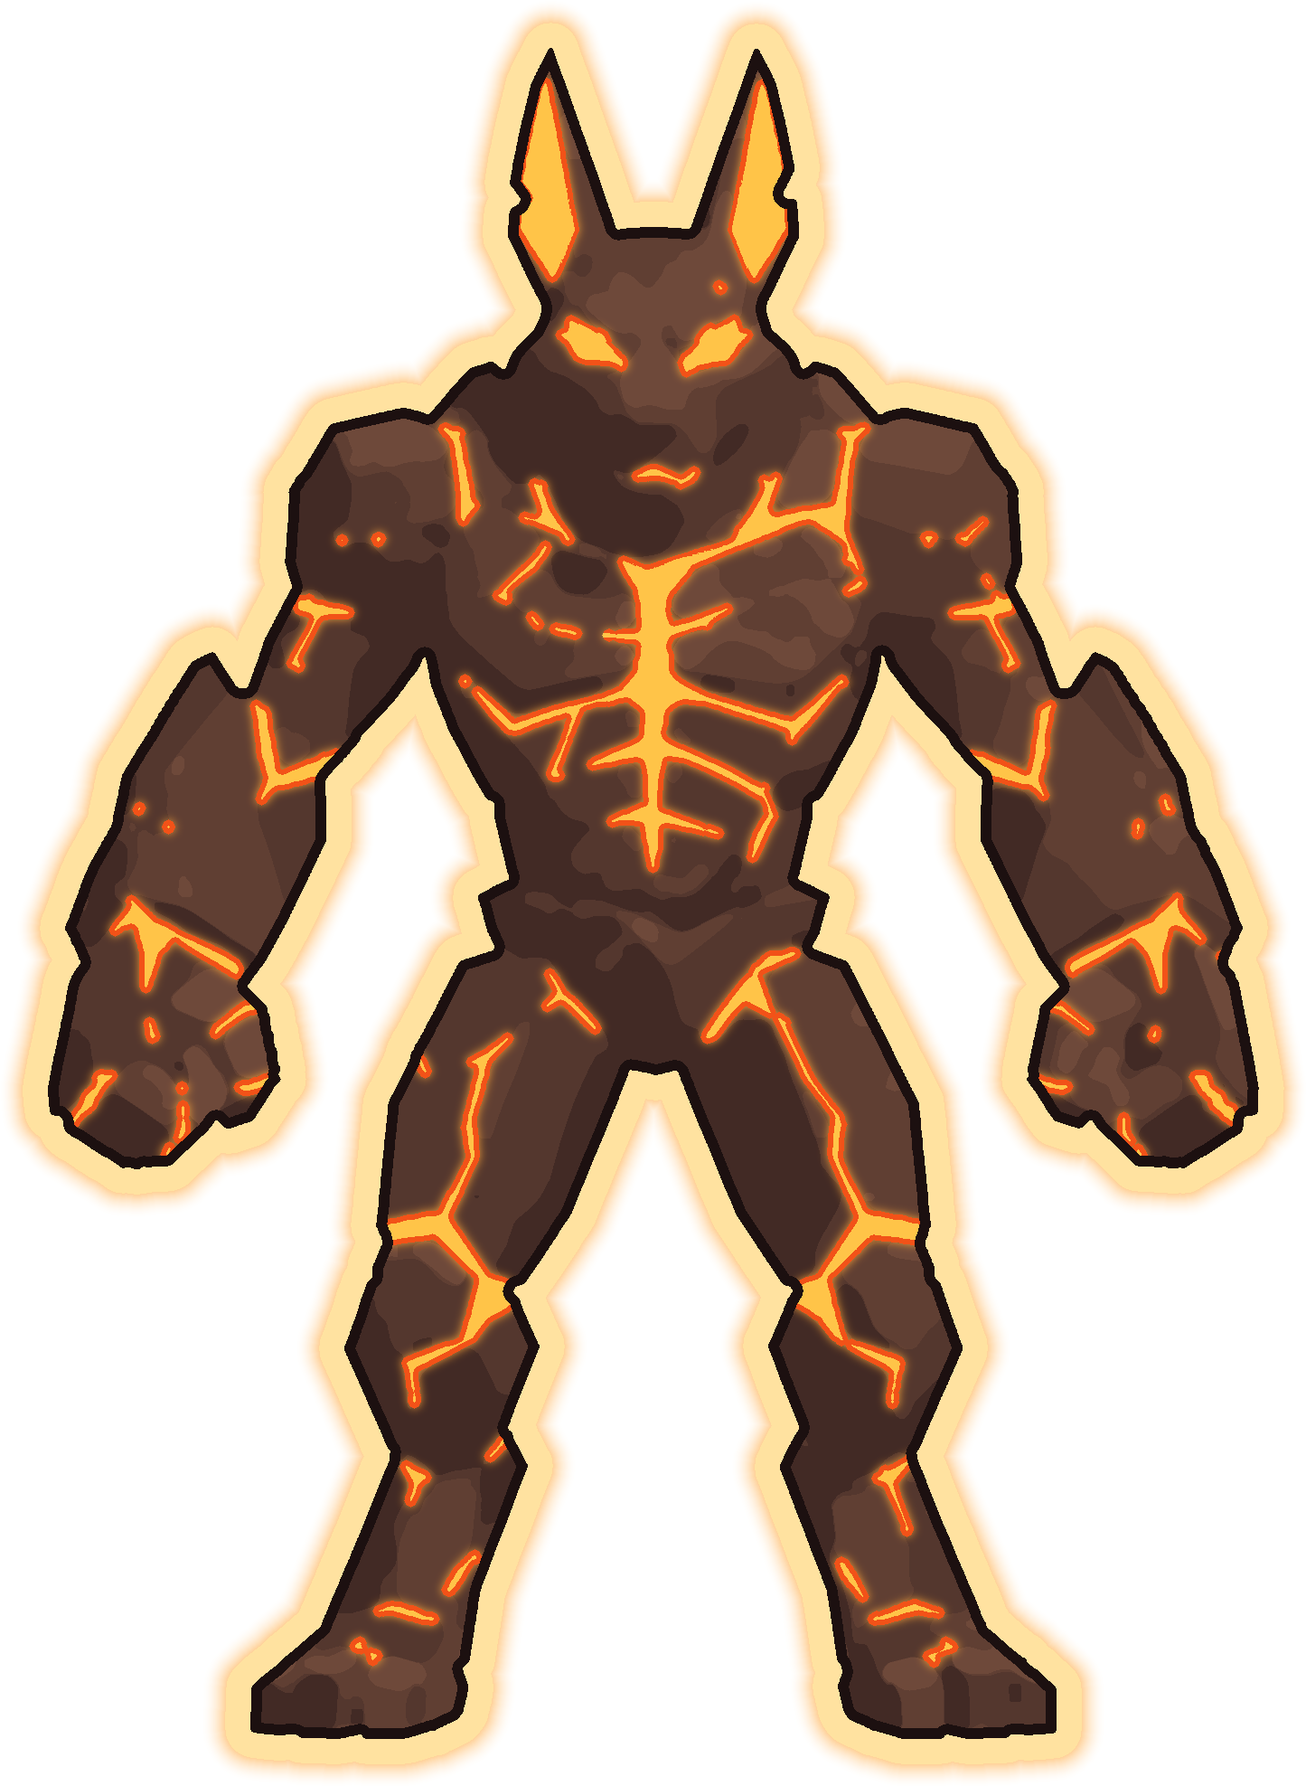
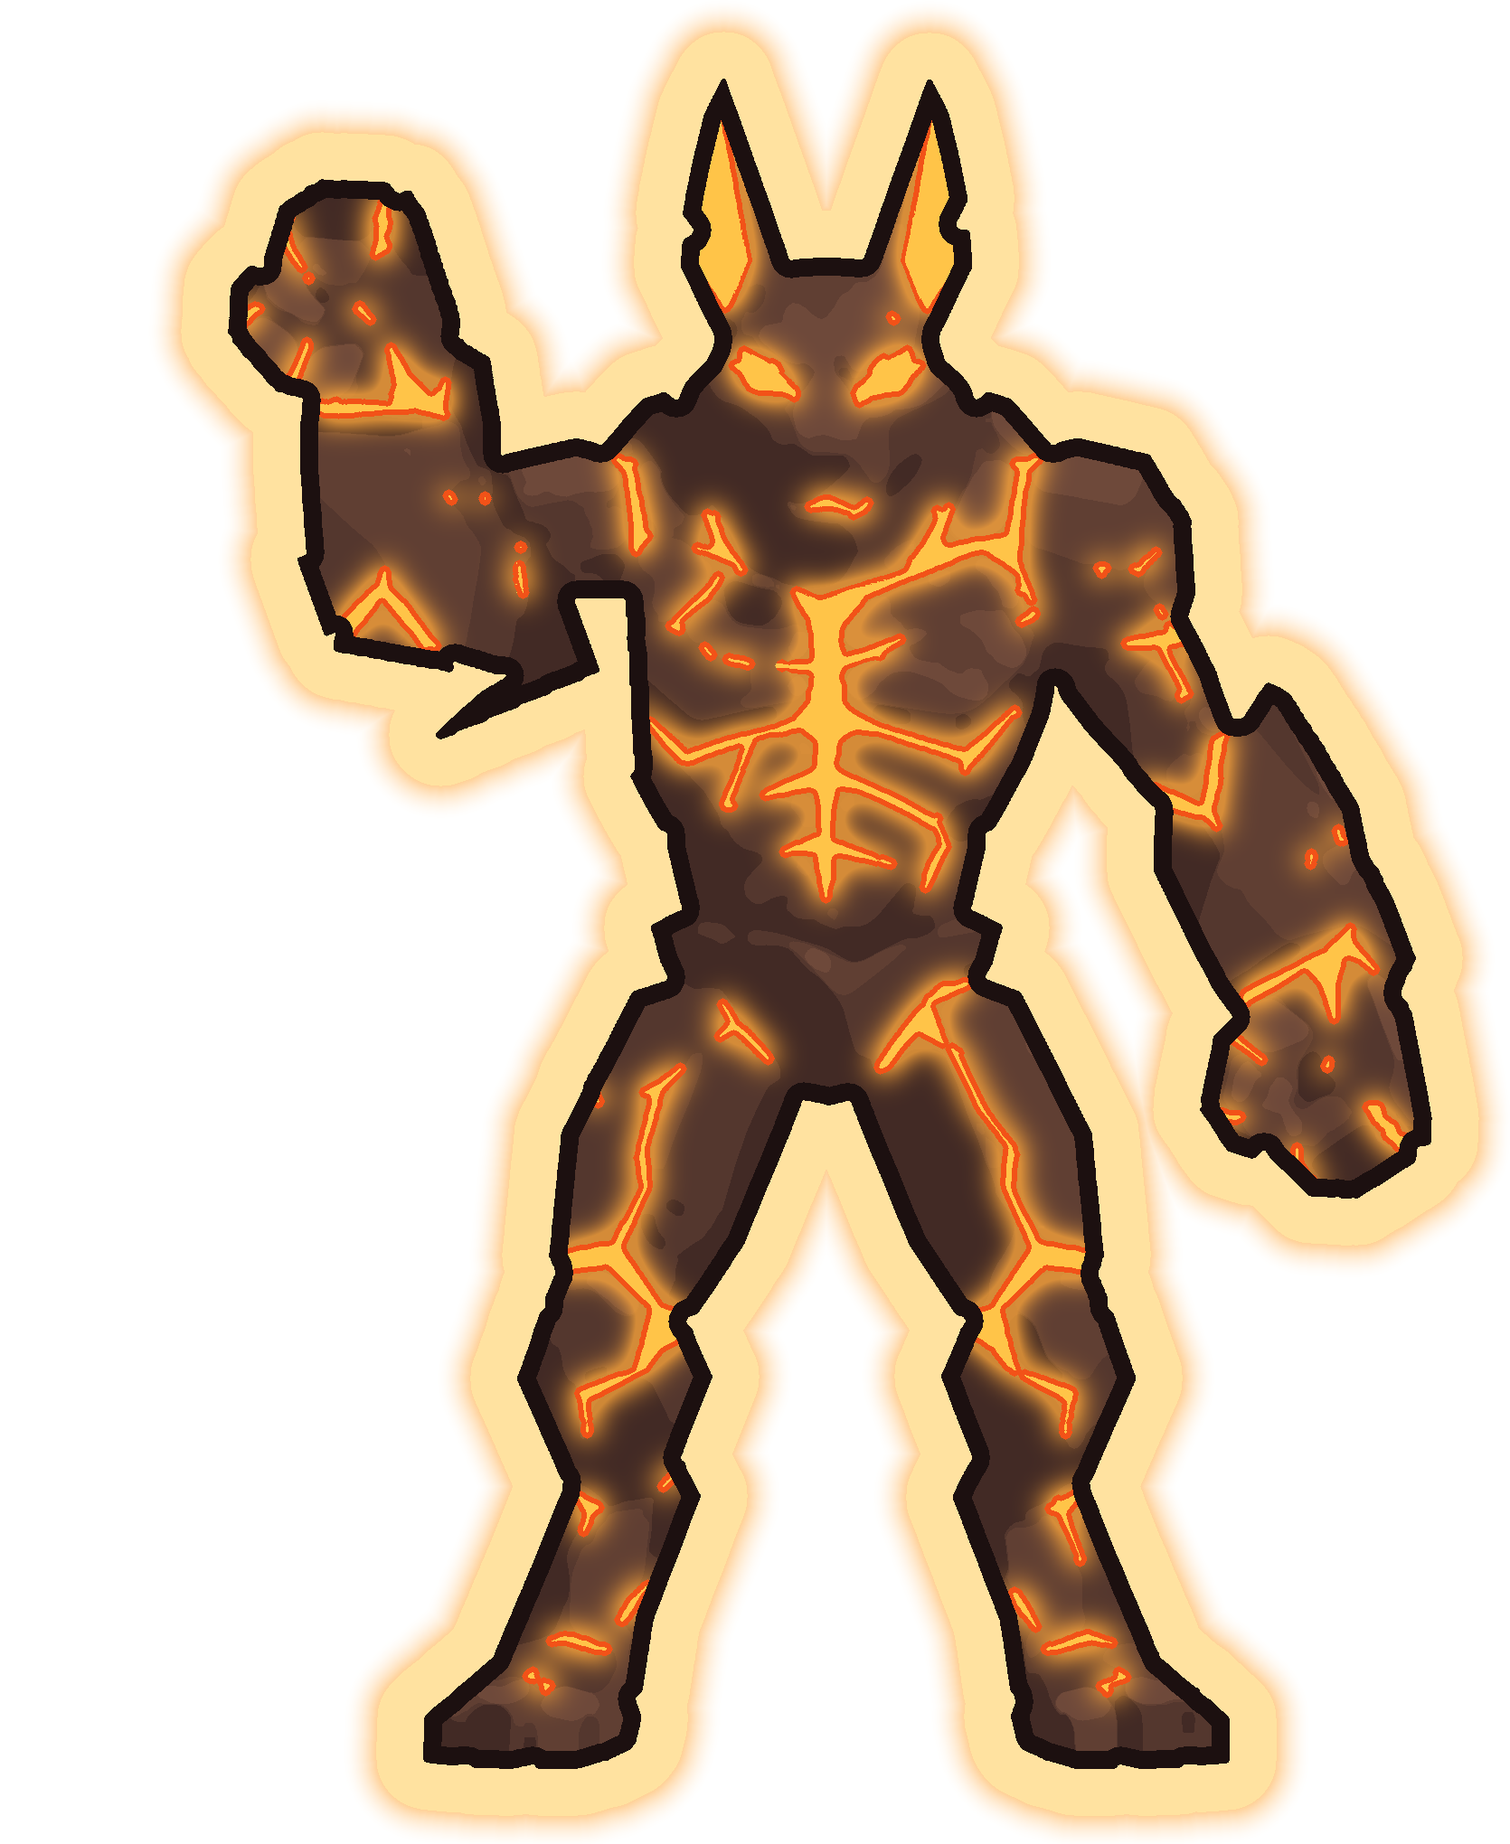
builder: jackal raises a burning fist — re-posed sprite, looping flame, bolder outline
Claude-Session: https://claude.ai/code/session_01Ncuv5uKtfeijyzjwXwmmWA

diff --git a/tools/beast_sprite.py b/tools/beast_sprite.py
@@ -14,11 +14,12 @@ points on the image (`HOLDS`) rather than raycast off a mesh.
 Needs Pillow, numpy and scipy. Re-runnable; the output is deterministic.
 """
 import json
+import math
 import sys
 from pathlib import Path
 
 import numpy as np
-from PIL import Image
+from PIL import Image, ImageDraw
 from scipy import ndimage as ndi
 
 ROOT = Path(__file__).resolve().parent.parent
@@ -38,6 +39,23 @@ BEASTS = {
             3: (560, 430), 4: (535, 330), 5: (512, 225),
         },
         "ledges": [0, 2, 3, 4],
+        # TARGET.png's pose out of the concept's arms-down turnaround (Nick,
+        # 2026-10-06: "use the reference again ... design"): the arm on the
+        # viewer's left is cut into upper arm and forearm+fist, the upper arm
+        # swung out to the side about the shoulder and the forearm swung up
+        # about the elbow, so the fist is raised beside the head. Concept
+        # pixels; degrees clockwise on screen. `nudge` slides the forearm onto
+        # the upper arm so the elbow stays one piece.
+        "repose": [
+            {"poly": [(300, 335), (400, 335), (405, 430), (360, 470), (285, 470)],
+             "pivot": (365, 345), "deg": 70},
+            {"poly": [(170, 370), (250, 360), (345, 440), (340, 520), (300, 560),
+                      (320, 670), (160, 680), (150, 520)],
+             "pivot": (300, 460), "deg": 150, "nudge": (30, 0)},
+        ],
+        # The raised fist burns at rest (TARGET.png): flame centre and size
+        # on the REPOSED concept, in concept pixels.
+        "flame": {"at": (205, 148), "size": (300, 230)},
     },
 }
 
@@ -51,9 +69,9 @@ CRACK = np.array([242, 82, 24], float)
 CRACK_HOT = np.array([255, 196, 72], float)
 
 SCALE = 2          # draw at 2x the concept so the strokes stay crisp
-CREAM_W = 28       # px at 2x: TARGET's outline is ~1.1 % of the beast's height
-INK_W = 12
-HALO_W = 28
+CREAM_W = 52       # px at 2x: bold enough to read at play size (grader, 2026-10-06)
+INK_W = 20
+HALO_W = 40
 MARGIN = 2
 
 
@@ -62,9 +80,97 @@ def disk(r):
     return x * x + y * y <= r * r
 
 
+def _rot(p, c, deg):
+    t = math.radians(deg)
+    x, y = p[0] - c[0], p[1] - c[1]
+    return (c[0] + x * math.cos(t) - y * math.sin(t),
+            c[1] + x * math.sin(t) + y * math.cos(t))
+
+
+def repose(src, pieces):
+    """Cut limbs out of the concept and swing them about their joints.
+
+    Each piece is the figure inside `poly`, rotated `deg` about `pivot`. A
+    piece after the first rides on the one before it: its pivot follows
+    where the previous rotation carried it (plus `nudge`), like a forearm on
+    an upper arm. What a piece leaves behind becomes the grey card.
+    """
+    a = np.asarray(src).astype(float)
+    mn, mx = a.min(-1), a.max(-1)
+    fg = ~((mn > 170) & (mx - mn < 26))
+    card = np.median(a[~fg], 0)
+    masks = []
+    for pc in pieces:
+        m = Image.new("L", src.size, 0)
+        ImageDraw.Draw(m).polygon(pc["poly"], fill=255)
+        masks.append((np.asarray(m) > 0) & fg)
+    base = a.copy()
+    for m in masks:
+        base[m | (ndi.binary_dilation(m, iterations=4) & ~fg)] = card
+    out = Image.fromarray(base.astype(np.uint8))
+    prev = None
+    for pc, m in zip(pieces, masks):
+        piv = pc["pivot"]
+        dst = piv
+        if prev is not None:
+            moved = _rot(piv, prev["pivot"], prev["deg"])
+            dst = (moved[0] + pc.get("nudge", (0, 0))[0], moved[1] + pc.get("nudge", (0, 0))[1])
+        t = math.radians(pc["deg"])
+        c, s_ = math.cos(t), math.sin(t)
+        inv = (c, s_, piv[0] - c * dst[0] - s_ * dst[1],
+               -s_, c, piv[1] + s_ * dst[0] - c * dst[1])
+        layer = Image.fromarray(np.dstack([a, m * 255.0]).astype(np.uint8), "RGBA")
+        layer = layer.transform(src.size, Image.AFFINE, inv, resample=Image.BICUBIC)
+        out.paste(layer, (0, 0), layer)
+        prev = pc
+    return out
+
+
+FLAME_FRAMES = 8
+# TARGET.png's fist fire: a cream-yellow core inside orange inside a deep
+# red-orange skin, hard-edged bands like the cracks, no outline.
+FLAME_BANDS = [(0.0, (238, 92, 26)), (0.32, (255, 150, 40)),
+               (0.58, (255, 210, 90)), (0.8, (255, 244, 196))]
+
+
+def flame_frames(w, h):
+    """FLAME_FRAMES looping frames of a flat drawn flame, side by side.
+
+    Time enters only as whole turns of a sine, so the last frame runs
+    seamlessly back into the first. Deterministic.
+    """
+    v = np.linspace(1.0, -0.16, h)[:, None]        # 0 at the base, 1 at the tip
+    u = np.linspace(-1.0, 1.0, w)[None, :]
+    strip = np.zeros((h, w * FLAME_FRAMES, 4), np.uint8)
+    for f in range(FLAME_FRAMES):
+        ph = 2.0 * math.pi * f / FLAME_FRAMES
+        # Tongues lick upward: the noise scrolls up the flame once per loop.
+        n = (0.55 * np.sin(5.0 * u + 9.0 * v - ph + 0.7)
+             + 0.35 * np.sin(-8.0 * u + 14.0 * v - 2.0 * ph + 2.1)
+             + 0.25 * np.sin(13.0 * u + 21.0 * v - 3.0 * ph + 4.0))
+        sway = 0.10 * np.sin(ph + 3.0 * v) * v
+        # A teardrop: widest a third of the way up, a point at the tip.
+        width = 0.92 * np.clip(np.sin(np.pi * np.clip(0.3 + v * 0.75, 0, 1)), 0, 1) ** 0.8
+        width = width * (1.0 - 0.55 * v ** 2)
+        heat = 1.0 - np.abs(u - sway) / np.maximum(width, 1e-3)
+        heat = heat - 0.45 * v + 0.2 * n * (0.3 + v)
+        # A rounded foot under the fist, not a cut-off base.
+        heat = heat - 6.0 * np.clip(-v, 0, None) - 2.0 * np.abs(u) * np.clip(-v, 0, None) * 6.0
+        heat = ndi.gaussian_filter(heat, 1.2)
+        frame = np.zeros((h, w, 4), np.uint8)
+        for lo, col in FLAME_BANDS:
+            m = heat > lo
+            frame[m, :3] = col
+            frame[m, 3] = 255
+        strip[:, f * w:(f + 1) * w] = frame
+    return Image.fromarray(strip, "RGBA")
+
+
 def build(beast_id):
     spec = BEASTS[beast_id]
     src = Image.open(ROOT / spec["concept"]).convert("RGB")
+    if spec.get("repose"):
+        src = repose(src, spec["repose"])
     w0, h0 = src.size
     src = src.resize((w0 * SCALE, h0 * SCALE), Image.LANCZOS)
     a = np.asarray(src).astype(float)
@@ -114,9 +220,10 @@ def build(beast_id):
     out[body, 3] = 255
 
     # The cracks glow onto the rock beside them.
-    glow = ndi.gaussian_filter(crack.astype(float), 5) * 1.6
+    # TARGET's cracks are hot enough to light the rock a hand's width out.
+    glow = ndi.gaussian_filter(crack.astype(float), 16) * 3.0
     glow = np.clip(glow, 0, 1)[..., None] * (body & ~crack)[..., None]
-    out[..., :3] = out[..., :3] * (1 - 0.55 * glow) + HALO * 0.55 * glow
+    out[..., :3] = out[..., :3] * (1 - 0.75 * glow) + HALO * 0.75 * glow
 
     # Ink just inside the edge, the cream stroke outside it, then the halo.
     inner = body & ~ndi.binary_erosion(body, disk(INK_W))
@@ -135,6 +242,17 @@ def build(beast_id):
     ys, xs = np.nonzero(out[..., 3] > 4)
     x0, x1 = max(xs.min() - MARGIN, 0), min(xs.max() + MARGIN, out.shape[1])
     y0, y1 = max(ys.min() - MARGIN, 0), min(ys.max() + MARGIN, out.shape[0])
+    flame = spec.get("flame")
+    if flame:
+        # The flame is its own sprite, but the body's texture is widened to
+        # cover it, so the fight's _fit_height (which reads the merged box)
+        # measures the same beast with or without the fire.
+        fw, fh = flame["size"][0] * SCALE, flame["size"][1] * SCALE
+        fx, fy = flame["at"][0] * SCALE, flame["at"][1] * SCALE
+        x0 = min(x0, int(fx - fw / 2))
+        x1 = max(x1, int(fx + fw / 2) + 1)
+        assert fy - fh / 2 >= y0, "the flame must not raise the beast's top"
+        assert x0 >= 0, "the flame runs off the concept"
     by = np.nonzero(body.any(1))[0]
     bx = np.nonzero(body.any(0))[0]
     feet_px = by.max()                      # bottom of the body, 2x space
@@ -159,10 +277,44 @@ def build(beast_id):
 
     holds = {int(k): world(v) for k, v in spec["holds"].items()}
     lines = [
-        '[gd_scene load_steps=2 format=3]',
+        f'[gd_scene load_steps={5 if flame else 2} format=3]',
         '',
         f'[ext_resource type="Texture2D" path="res://assets/3d/cast/{png.name}" id="1"]',
         '',
+    ]
+    if flame:
+        fpng = OUT_DIR / f"{beast_id}_2d_flame.png"
+        flame_frames(fw, fh).save(fpng, optimize=True)
+        step = 0.1
+        times = ", ".join(f"{i * step:g}" for i in range(FLAME_FRAMES))
+        lines += [
+            f'[ext_resource type="Texture2D" path="res://assets/3d/cast/{fpng.name}" id="2"]',
+            '',
+            '[sub_resource type="Animation" id="Animation_idle"]',
+            'resource_name = "idle"',
+            f'length = {FLAME_FRAMES * step:g}',
+            'loop_mode = 1',
+            f'step = {step:g}',
+            'tracks/0/type = "value"',
+            'tracks/0/imported = false',
+            'tracks/0/enabled = true',
+            'tracks/0/path = NodePath("Fire:frame")',
+            'tracks/0/interp = 0',
+            'tracks/0/loop_wrap = true',
+            'tracks/0/keys = {',
+            f'"times": PackedFloat32Array({times}),',
+            f'"transitions": PackedFloat32Array({", ".join(["1"] * FLAME_FRAMES)}),',
+            '"update": 1,',
+            f'"values": [{", ".join(str(i) for i in range(FLAME_FRAMES))}]',
+            '}',
+            '',
+            '[sub_resource type="AnimationLibrary" id="AnimationLibrary_1"]',
+            '_data = {',
+            '&"idle": SubResource("Animation_idle")',
+            '}',
+            '',
+        ]
+    lines += [
         f'[node name="{beast_id}_2d" type="Node3D"]',
         '',
         '[node name="Body" type="Sprite3D" parent="."]',
@@ -176,6 +328,28 @@ def build(beast_id):
         'texture = ExtResource("1")',
         '',
     ]
+    if flame:
+        x, y = world(flame["at"])
+        # Just behind the drawing: the fist and its outline sit in the fire.
+        lines += [
+            '[node name="Fire" type="Sprite3D" parent="."]',
+            f'transform = Transform3D(1, 0, 0, 0, 1, 0, 0, 0, 1, {x:.4f}, {y:.4f}, -0.01)',
+            f'pixel_size = {px:.6f}',
+            'billboard = 2',
+            'shaded = false',
+            'double_sided = false',
+            'alpha_cut = 1',
+            'texture_filter = 3',
+            'texture = ExtResource("2")',
+            f'hframes = {FLAME_FRAMES}',
+            '',
+            '[node name="AnimationPlayer" type="AnimationPlayer" parent="."]',
+            'libraries = {',
+            '&"": SubResource("AnimationLibrary_1")',
+            '}',
+            'autoplay = &"idle"',
+            '',
+        ]
     # z 0.25: a hunter on a hold stands just in front of the drawing.
     for h, (x, y) in sorted(holds.items()):
         lines += [f'[node name="climb_{h}" type="Node3D" parent="."]',

diff --git a/design/plan/BUILDER-QUEUE-NOTES.md b/design/plan/BUILDER-QUEUE-NOTES.md
@@ -1724,6 +1724,19 @@ Brief: the standing item; one pass per run. First before frame: `frames/builder/
   - Close-out: the first before frame is p1-before; the last after frame that shipped is p20-after (passes 21-23 were reverted, so the game today looks like p20-after).
   - Found: the cracks' yellow comes from the global bloom, not the jackal's material; toning it touches the lava and every glow, so it is a scene-wide pass, not a crack fix.
 
+## Redraw the jackal to TARGET.png's pose, and light its fist.
+
+2026-10-06 builder run (cloud).
+
+- **Pose.** `tools/beast_sprite.py` now re-poses the concept before inking it (`repose`, spec `"repose"`): the viewer's-left arm is cut into upper arm and forearm+fist; the upper arm swings 70 degrees out about the shoulder and the forearm 150 degrees up about the elbow (nudged 30 px onto the upper arm so the elbow stays joined). The fist is raised beside the head, as in TARGET. No new illustration was needed. Lean, weight shift and head turn are NOT done.
+- **Fist fire.** `flame_frames` draws 8 looping frames of a flat banded flame (deep orange, orange, yellow, cream core) into `cinder_jackal_2d_flame.png`. The scene gets a `Fire` Sprite3D (hframes 8) just behind the fist, plus an `AnimationPlayer` whose `idle` steps `Fire:frame`. The fight already plays a beast's `idle` on load, so no fight code changed. The body texture is widened to cover the flame's rect, so `_fit_height` (which reads the merged box) sizes the beast the same.
+- **Outline/glow.** CREAM_W 28 to 52, INK_W 12 to 20, HALO_W 28 to 40. Crack glow is wider (sigma 5 to 16) and stronger (0.55 to 0.75).
+- **Framing.** DRAWN_GAP_PER_HEIGHT 1.1 to 1.0: the ear tips now meet the top edge. At 0.75 the head left the frame entirely, because the locked camera does not tilt. A trial that sank the drawing 0.28 heights into the floor ("in the lava") moved the sigil to the chest and the stones over the fist, and gaps below 0.8 barely grew the beast. Both were reverted.
+- **Not done: stones and climb camera.** The stone route (TARGET: in front of the torso, ending at the chest) and the stones missing from `3dclimb` both come from the camera and route rules. The climb shot is locked at GROUND_VIEW_PITCH with FOLLOW_DIST, per Nick 2026-09-28 ("the camera should be consistent"). At the top hold, every stone sits below the frame. Fixing that means tilting or lifting the climb camera, which goes against that rule, so it is asked, not done.
+- Tests: `_test_jackal_is_a_drawing` adds checks for the flame strip, the flame up beside the head on the viewer's left, the flame staying inside the body's box, and a looping `idle` stepping `Fire:frame`. ALL TESTS PASSED.
+- Grader: round 1 FAIL (CLOSER: the burning fist matches; outline thin, size, stones, climb). Round 2 FAIL (CLOSER: outline MET, fist MET; pose lean, framing size, snout/brow, stone shadows, 3dclimb stones NOT MET). Stopped after two rounds because the rest needs Nick's camera call. Final `VERDICT: FAIL`.
+- Climb frame: ![[agents/frames/builder/2026-10-06-jackal-pose-3dclimb-after.png|420]]
+
 ## The jackal becomes a 2.5D sprite, like the reference.
 
 2026-10-05 builder run.

diff --git a/design/agents/status/builder.md b/design/agents/status/builder.md
@@ -2,8 +2,8 @@
 tags:
   - agent-status
 agent: builder
-updated: 2026-10-05T16:18
-working_on: "A HUD that matches the chosen card frame."
+updated: 2026-10-06T17:08
+working_on: "Redraw the jackal to TARGET.png's pose, and light its fist."
 ---
 
 # builder
@@ -13,20 +13,22 @@ The one lane that builds. Queue: [[../../plan/BUILDER-QUEUE]]. Brief:
 
 ## This run
 
-2026-10-05 16:18 EDT
+2026-10-06 17:08 EDT
 
-- **Did:** Re-skinned every HUD panel in the A1 card stone, its glow lit by the held hunter's seat colour.
-- **Worked?** Partly: one material with the cards, but the grader wants TARGET-UI's grey/gold stone. VERDICT: FAIL
-- **Look at:** ![[frames/builder/2026-10-05-a1-hud-before.png]] then ![[frames/builder/2026-10-05-a1-hud-after.png]]
-- **Ask:** Seat-colour glow, or TARGET-UI's grey stone and gold: which wins?
+- **Did:** Raised the jackal's fist with a looping flame, bolder outline and glow, framed so ears touch the top.
+- **Worked?** Partly: pose and fire landed, size, stones and climb camera did not. VERDICT: FAIL
+- **Look at:** ![[frames/builder/2026-10-06-jackal-pose-3d-before.png]] then ![[frames/builder/2026-10-06-jackal-pose-3d-after.png]]
+- **Ask:** May the climb camera tilt down so the stone route stays in frame?
 
 ## Notes
 
-- **Found:** Short panels (beast plate, intent, Switch, health plates) clamp the A1 band thin; it reads as an outline.
-- **Found:** Draw, discard and burn badges are still brass card stacks, outside A1.
+- **Found:** Drawn-gap lever is clamped: below 0.8 the jackal barely grows on screen.
+- **Found:** Grey arc behind End Turn in the 3dclimb shot.
+- **Found:** Face still reads as a flat plate at play size; the concept has no real snout or brow to keep.
 
 ## Log
 
+- 2026-10-06 17:08 EDT — builder: jackal re-posed (beast_sprite.py repose: arm raised), looping fist flame (Fire Sprite3D + idle AnimationPlayer), bolder outline/glow, DRAWN_GAP 1.0 + tests; grader FAIL x2 (size, stones, climb camera); marked 👀 for Nick; tests green, pushed.
 - 2026-10-05 16:18 EDT — builder: A1 HUD (hudpanel_a1.py pair, Combat3D.add_a1_panel on beast plate, intent, energy, gauge, End Turn, Switch, health plates; seat re-tint) + tests; grader FAIL x3 on TARGET-UI material; marked 👀 for Nick; tests green, pushed.
 - 2026-10-05 16:05 EDT — builder: A1 card frame shipped (CardView.SHIP_A1, stone + glow nine-patches, SEAT_TINT feeding SLOT_TINT, boxes from cardframe_a1.py, cost sized to socket) + tests; grader FAIL twice on the hand's bottom tuck; marked 👀 for Nick; tests green, pushed.
 

diff --git a/design/plan/BUILDER-QUEUE.md b/design/plan/BUILDER-QUEUE.md
@@ -10,7 +10,7 @@ run failed.
 
 ## Now — the Cinder Jackal fight
 
-- [ ] **Redraw the jackal to TARGET.png's pose, and light its fist.**
+- [ ] 👀 **Redraw the jackal to TARGET.png's pose, and light its fist.**
       **Nick, 2026-10-06:** "Use the reference again for the builder for aesthetic (bold outlines, glow), design (jackal in lava, stone placement), and potential animations (the fire in jackals hand)."
       The sprite style landed — `game/assets/3d/cast/cinder_jackal_2d.png`
       (generated by `tools/beast_sprite.py`, scene `cinder_jackal_2d.tscn`) reads
@@ -38,7 +38,10 @@ run failed.
       stone route, the fist is alight at rest, and the stones are still in frame
       in `3dclimb`.
       Side by side: ![[art/shots/2026-10-06-vs-target.png|520]]
-      Test: state=3d beast=cinder_jackal ^redraw-the-jackal-to-target-pose
+      ▶ [Test this now](obsidian://shell-commands/?vault=design&execute=fight-uri-beast&_beast=cinder_jackal) · [[BUILDER-QUEUE-NOTES#Redraw the jackal to TARGET.png's pose, and light its fist.|details]]
+      Ask: Grader failed this: fist burns, but size/stones/climb camera unmoved. Let climb camera tilt down?
+      Test: state=3d beast=cinder_jackal
+      ![[agents/frames/builder/2026-10-06-jackal-pose-3d-after.png|420]] ^redraw-the-jackal-to-target-pose
 
 - [ ] 👀 **The jackal becomes a 2.5D sprite, like the reference.**
       **Nick, 2026-10-05:** "the new model still doesn't match the style of the reference. could going to a vector 2d style boss help? have the builder do the 2.5D like in the reference."
@@ -694,3 +697,5 @@ Non-quadrupeds need a new body plan in `ai_beast.py`; ask first.
 - [ ] (proposed) **Second seat's blue hand unshot.** The rest frame only shows the Frog's green cards; a switch= shot would prove blue.
 - [ ] (proposed) **Thin HUD panels lose their stone.** The beast plate, intent, plates and Switch are so short the A1 band reads as an outline.
 - [ ] (proposed) **Pile badges still brass.** Draw, discard and burn are the old brown card stacks, the one HUD piece not in A1.
+- [ ] (proposed) **Drawn-gap lever is clamped.** DRAWN_GAP_PER_HEIGHT below 0.8 no longer grows the jackal on screen; something else caps it.
+- [ ] (proposed) **Grey arc behind End Turn in 3dclimb.** A pale arc shows at x 1000-1150, y 630-720 in the climb shot.
